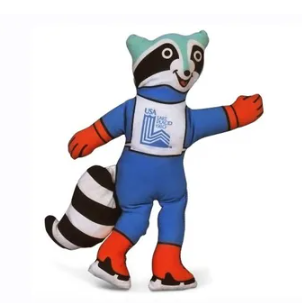
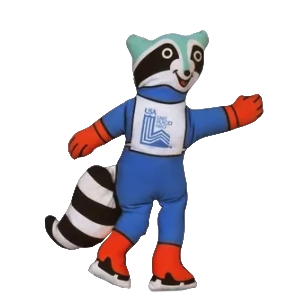
Update 19/05/25 Release and update imgSymbs

diff --git a/Model/OlympicSymbolsRepo.cs b/Model/OlympicSymbolsRepo.cs
@@ -10,7 +10,7 @@
                 Name = "Фриги",
                 Description = "14 ноября 2022 года организационный комитет Олимпиады 2024 презентовал официальный талисман Игр — фригийский колпак по имени Фриги. Это головной убор красного цвета, который является символом Французской Республики. Он олицетворяет свободу. Его носили еще в Древней Греции и Риме, во время строительства собора Нотр-Дам и Эйфелевой башни, во время революции 1789 года и во время Олимпийских игр 1924 года в Париже. Маскот Олимпиады-2024 напоминает о многовековой истории Франции и ее борьбе за равноправие.",
                 OlympicDate = "Летние Олимпийские игры 2024 во Франции, Париж",
-                Image = "frigi.jpg"
+                Image = "frigi.png"
             },
             new OlympicSymbols
             {
@@ -18,7 +18,7 @@
                 Name = "Бин Дунь Дунь и Сюэ Жунжун",
                 Description = "Бин Дунь Дунь представляет собой большую панду в костюме изо льда, похожем на скафандр астронавта. На современном китайском слово «бин» имеет несколько значений, но в первую очередь означает лед, а вместе с ним — чистоту и силу. «Дунь Дунь» значит здоровый, крепкий и жизнерадостный. Так организаторы выражают связь с новыми технологиями и будущим, где возможности безграничны. Яркие разноцветные кольца вокруг мордочки талисмана представляют новейшие ледовые и снежные арены Пекина, построенные по передовым технологиям. Сердечко на левой лапе символизирует гостеприимность Китая по отношению ко всем участникам и зрителям Белой Олимпиады.\r\nВторым талисманом Зимней Олимпиады 2022 стал ребенок в костюме, напоминающем традиционные китайские фонарики. Его зовут Сюэ Жунжун, это имя происходит от китайских слов «снег» и «тепло». По замыслу организаторов, этот персонаж символизирует внимательное отношение к людям с ограниченными возможностями, а также чрезвычайную важность культурного обмена.",
                 OlympicDate = "Зимние Олимпийские игры 2022 в Пекине, Китай",
-                Image = "binbin.jpg"
+                Image = "binbin.png"
             },
             new OlympicSymbols
             {
@@ -26,7 +26,7 @@
                 Name = "Мирайтова",
                 Description = "Имя талисмана Летних Игр 2020 года, прошедших в 2021 году, происходит от японских слов «мирай» (будущее) и «това» (вечность). Паралимпийский символ назвали именем Сомэйти — так называют популярный сорт сакуры, что созвучно с английским выражением «so mighty» (такой могучий). В образе талисманов сочетаются традиционные и футуристические черты, которые воплощаются в японской идее «от традиции к инновациям». На лбу у маскотов изображена эмблема Олимпиады-2020 в Токио, а сами талисманы раскрашены четырехугольниками цвета индиго и розовый на манер шахматной доски.",
                 OlympicDate = "Летние Олимпийские игры 2020 в Токио, Япония",
-                Image = "miraitova.jpg"
+                Image = "miraitova.png"
             },
             new OlympicSymbols
             {
@@ -42,7 +42,7 @@
                 Name = "Винисиус и Том",
                 Description = "Талисманом Олимпийских игр в Рио было желтое кошкообразное существо по имени Винисиус, а символом Паралимпийских игр был Том, сине-зеленая фигура, голова которой была покрыта листьями. Они представляли собой яркий и жизнерадостный народ Бразилии, а также богатую фауну и дикую природу этой большой южноамериканской страны. Имена маскотам были выбраны в честь музыкантов Винисиуса де Морайса и Тома Жобима. Интересно, что символы Олимпиады в Рио были утверждены больше, чем за 2 года до самих Игр. На публике талисманы впервые появились в виде ростовых кукол в Экспериментальной олимпийской гимназии имени Хуана Антонио Самаранча, бывшего президента МОК. Это школа в Рио-де-Жанейро, открытая перед Олимпиадой для развития юных спортсменов.",
                 OlympicDate = "Летние Олимпийские игры 2016 года в Рио-де-Жанейро, Бразилия",
-                Image = "vinustom.jpeg"
+                Image = "vinustom.png"
             },
             new OlympicSymbols
             {
